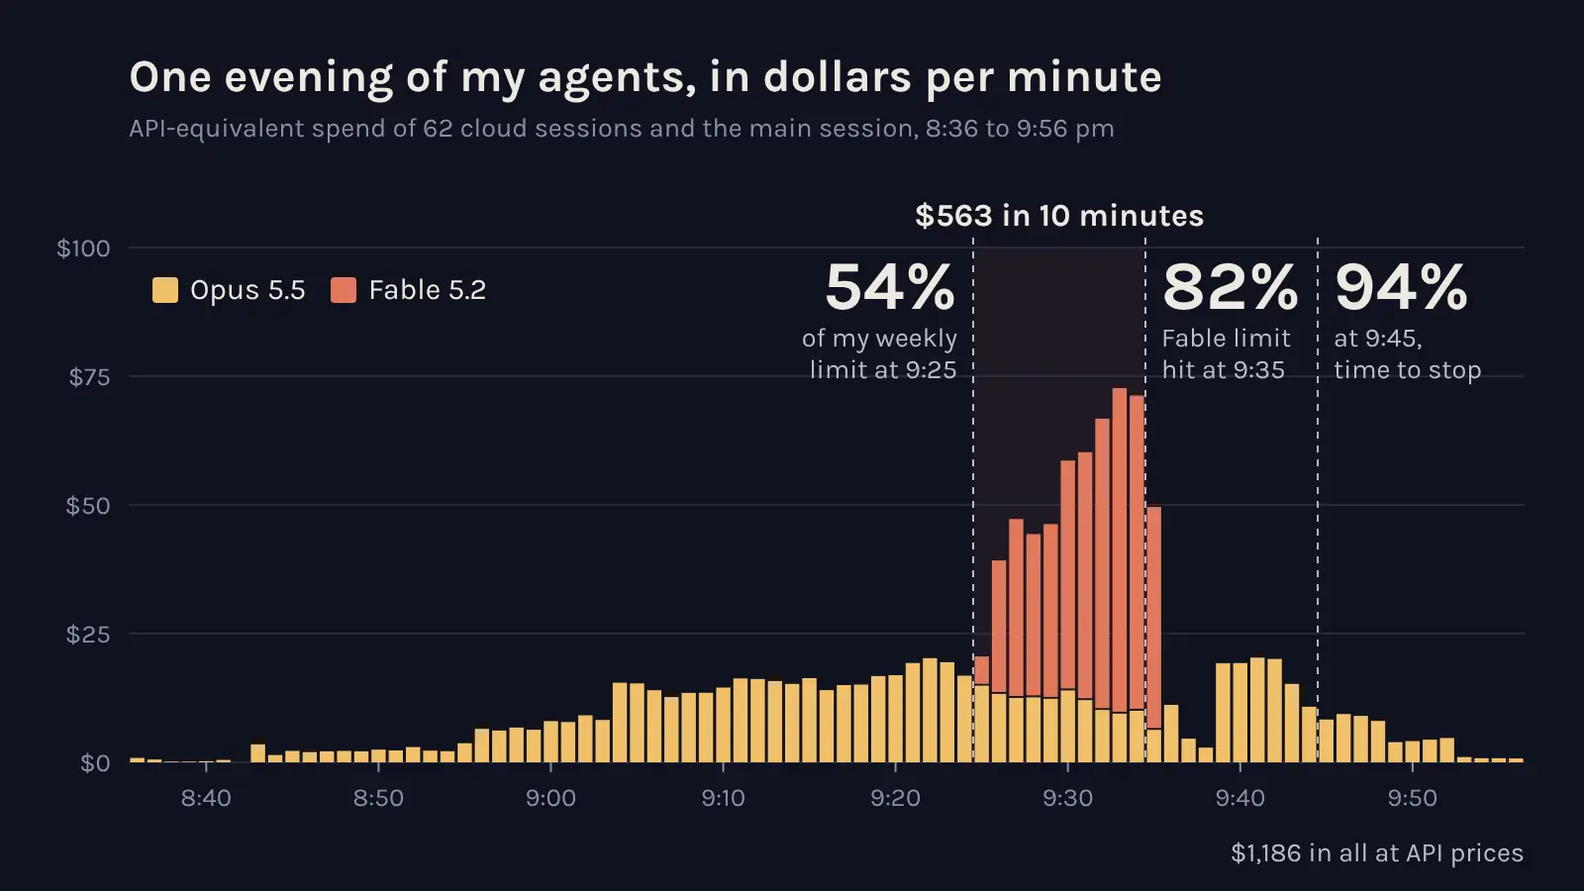
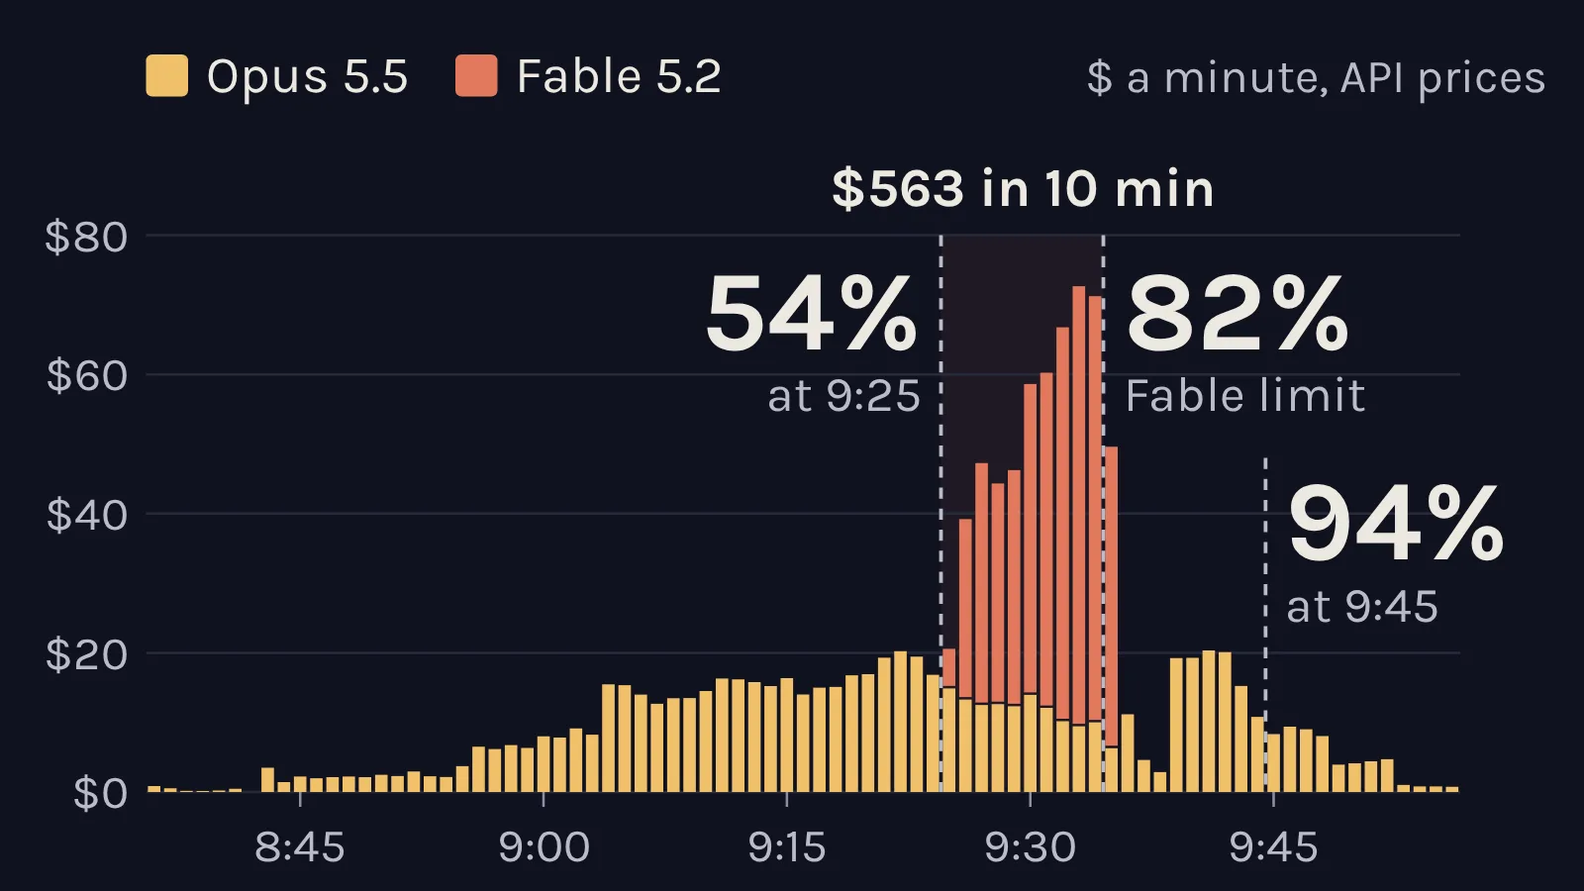
AO-085: review fixes, a phone-legible chart and a fairer account of the Fable wave
- The 9x jump in spend per minute is now set against the Opus minutes just before the wave too (about 3x:
  1.2x tokens a minute, 1.6x pricier token mix, 1.5x Fable's price), with both splits in the fold, and the
  card point, rundown and lesson no longer lean on the warm-up baseline.
- The meter claims are softened: three hand-read readings can't show how the plan weighs Fable against Opus,
  the section is "Why spend jumped when Fable joined", and my own uncounted session during the wave is noted.
- The Fable limit stopped at least 22 of the 26 Fable sessions, not 16. Peak is 39 cloud sessions (40 with the
  orchestrator). About 3,200 items had their maker, project or run overwritten, not only the maker.
- Per-minute spend is marked as estimated and rounded. Verdict says "at API prices". Hedged inferences about
  cache writes and the vision tagger, glossed newcomer terms, paraphrased one quote, dropped the write-cap number.
- The spend chart is redrawn with type that reads at 376 px (figure is flush), and the card still with it.

Claude-Session: https://claude.ai/code/session_01H1qqxxYHPuKvGosDEZab3M

diff --git a/src/content/posts/the-library-fleet.md b/src/content/posts/the-library-fleet.md
@@ -7,34 +7,34 @@ topic: "agents"
 project: []
 draft: false
 preview:
-  verdict: "$1,186 in 80 minutes"
-  takeaway: "The 10 minutes when Fable 5.2 sessions joined cost $563, almost half the night, and my weekly meter went from 54% to 82%."
+  verdict: "$1,186 at API prices"
+  takeaway: "The 10 minutes when Fable 5.2 sessions joined cost about $563, almost half the night, and my weekly meter went from 54% to 82%."
   points:
-    - "Spend per minute went up 9 times in the Fable wave. More agents at once did most of that, Fable's price the least."
+    - "The Fable wave cost 3 times as much a minute as the Opus minutes before it, mostly from a pricier token mix and Fable's price."
     - "Cache reads were 95% of the 1.8 billion tokens but only 30% of the bill. Fresh cache writes were 53%."
-    - "What broke: 1,363 bad tags, an overloaded database, the maker of about 3,200 items overwritten. All fixed that night."
+    - "What broke: 1,363 bad tags, an overloaded database, and fields on about 3,200 items overwritten. All fixed that night."
   image: "/media/previews/the-library-fleet.webp"
   alt: "Bar chart of dollars per minute through the evening: gold Opus bars under $21 a minute, then coral Fable bars spiking to $73 a minute, with the weekly meter marked at 54%, 82% and 94%"
 ---
 
-My private media library is where everything my AI agents make gets filed for me to look at. By Tuesday evening it held 72,670 files, mostly scaffolding (pictures agents made so other agents could check their work), and none were tagged by what's in them. My weekly Claude usage limit was resetting in an hour and a half with plenty left. So I asked Claude to be the orchestrator, an agent that plans a job and hands it out, and to do none of the work itself.
+My private media library is where everything my AI agents make gets filed for me to look at. By Tuesday evening it held 72,670 files, tens of thousands of them scaffolding (pictures agents made so other agents could check their work), and none were tagged by what's in them. My weekly Claude usage limit was resetting in an hour and a half with plenty left. So I asked Claude to be the orchestrator, an agent that plans a job and hands it out, and to do none of the work itself.
 
-**In 80 minutes it ran 62 cloud sessions, which started at least 425 helper agents of their own, and burned through $1,186 worth of tokens at API prices.** A cloud session is a full Claude Code agent on its own computer in the cloud. API prices are what those tokens would cost if I paid per token instead of my $200 a month plan. Almost half of it, $563, went in the 10 minutes when [Fable 5.2](/ledger/a-week-with-fable-5-2/), Anthropic's model above Opus 5.5, joined in. That's when my weekly meter jumped from 54% to 82%.
+**In 80 minutes it ran 62 cloud sessions, which started at least 425 helper agents of their own, and burned through $1,186 worth of tokens at API prices.** A cloud session is a full Claude Code agent on its own computer in the cloud. API prices are what those tokens would cost if I paid per token instead of my $200 a month plan. Almost half of it, about $563, went in the 10 minutes when [Fable 5.2](/ledger/a-week-with-fable-5-2/), Anthropic's model above Opus 5.5, joined in. That's when my weekly meter jumped from 54% to 82%.
 
-- **It came in waves.** Data workers, page builders, 13 gem hunters, 8 sessions tagging images by eye, then the Fable 5.2 wave, with 40 sessions open at the peak.
+- **It came in waves.** Data workers, page builders, 13 gem hunters (sessions that pick my best pieces), 8 sessions tagging images by eye, then the Fable 5.2 wave, with 39 cloud sessions open at the peak.
 - **I kept changing the plan while it ran,** and each ask became new sessions or helpers within minutes.
-- **Three things broke, and all were fixed that evening.** 1,363 wrong tags from a cheap vision model, about 3,200 overwritten items, and a database the crowd overloaded.
+- **Three things broke, and all were fixed that evening.** 1,363 wrong tags from a cheap vision model, fields overwritten on about 3,200 items, and a database the crowd overloaded.
 - **The trash pile had real work in it.** The rescue passes pulled 2,018 real pieces out of the cleanup proposal.
-- **The meter followed spend per minute, not the model's name.** Spend went up 9 times in the Fable wave, mostly because more agents ran at once.
-- **The cache did most of the work for little of the bill,** 95% of the tokens and 30% of the cost.
+- **Spend per minute jumped when Fable joined, from more helpers per session and Fable's higher price.** Three meter readings can't show how the plan weighs Fable against Opus.
+- **The cache did most of the work for under a third of the bill,** 95% of the tokens and 30% of the cost.
 
-<figure><img class="fill soft" src="/media/the-library-fleet/spend-per-minute.webp" alt="Bar chart of dollars per minute at API prices from 8:36 to 9:56 pm. Gold Opus 5.5 bars climb to about $20 a minute by 9:22. Coral Fable 5.2 bars stack on top from 9:25 and peak at $73 a minute at 9:33, then stop at 9:35. Dashed lines mark the weekly meter at 54% at 9:25, 82% at 9:35 when the Fable limit hit, and 94% at 9:45" loading="lazy"><figcaption>The whole evening, a column a minute. Cloud sessions report their totals exactly, but how they spread over the minutes is estimated from their checkpoints.</figcaption></figure>
+<figure class="flush"><img class="fill soft" src="/media/the-library-fleet/spend-per-minute.webp" alt="Bar chart of dollars per minute at API prices from 8:36 to 9:56 pm. Gold Opus 5.5 bars climb to about $20 a minute by 9:22. Coral Fable 5.2 bars stack on top from 9:25, peak at $73 a minute at 9:33 and stop at 9:35, $563 in those 10 minutes. Dashed lines mark the weekly meter at 54% at 9:25, 82% at 9:35 when the Fable limit hit, and 94% at 9:45" loading="lazy"><figcaption>The whole evening, a column a minute, in dollars at API prices. Each cloud session's total is exact, but how it splits by minute is estimated from its checkpoints.</figcaption></figure>
 
 ## How it ran
 
 The library is part of my command center, the private dashboard my agents post to. It's the same one whose database [hit Cloudflare's free limit](/ledger/d1-free-tier-cutoff/) in October. It held 57.9k images, 4.1k videos and 8.8k audio files.
 
-The orchestrator started helpers inside its own session (subagents, which share its computer) and cloud sessions, which each get their own. 36 sessions ran Opus 5.5 and 26 ran Fable 5.2. 29 were ultracode sessions. Ultracode is a keyword that tells Claude Code to hand every task to a crowd of helper agents, cost no object. I asked for it at 9:19.
+The orchestrator started helpers inside its own session (subagents, which share its computer) and cloud sessions, which each get their own. 36 sessions ran Opus 5.5 and 26 ran Fable 5.2. 29 were ultracode sessions. Ultracode is a keyword that tells Claude Code to hand every task to a crowd of helper agents, cost no object. I asked for it at 9:19, and the orchestrator's prompts told each of those sessions to fan out to 8 or more helpers.
 
 <ao-runs>
 <table>
@@ -129,7 +129,7 @@ The orchestrator started helpers inside its own session (subagents, which share 
 <tr><td>Fable Wow room: Echo's bell tower</td><td>Wow rooms, Fable</td><td>21:31:19</td><td>21:36:26</td></tr>
 </tbody>
 </table>
-<figcaption><b>Every session and helper on one clock, 8:36 to 9:56 pm</b><span class="ao-meta">87 bars: the orchestrator, its 24 helpers and 62 cloud sessions, on a 24-hour clock (20:36 is 8:36 pm). The 425 or more helpers inside the cloud sessions aren't drawn. Rescue passes ran on Fable until its limit, then six were moved to Opus.</span></figcaption>
+<figcaption><b>Every session and helper on one clock, 8:36 to 9:56 pm</b><span class="ao-meta">87 bars: the orchestrator, its 24 helpers and 62 cloud sessions, on a 24-hour clock (20:36 is 8:36 pm). The 425 or more helpers inside the cloud sessions aren't drawn. Rescue passes ran on Fable until its limit, then six were moved to Opus. Sessions stopped by the Fable limit are drawn to their last error, but spent nothing after 9:35. Colors only tell the phases apart.</span></figcaption>
 </ao-runs>
 
 ## How the evening went
@@ -137,28 +137,28 @@ The orchestrator started helpers inside its own session (subagents, which share 
 <ao-timeline lanes="a:Me|o:Orchestrator|f:Cloud sessions|m:Weekly meter">
 <ol>
 <li data-lane="a"><time>8:36 pm</time><p>I ask for the library tagged, tidied and made into <q>a place that I love to be</q> by 10 pm. <q>don't do any of the work yourself</q></p></li>
-<li data-lane="a"><time>8:48 pm</time><p><q>I give you unlimited database budget.</q> The dashboard's own cap on agent writes, 65,000 rows a day, still stops it.</p></li>
+<li data-lane="a"><time>8:48 pm</time><p><q>I give you unlimited database budget.</q> The dashboard's own daily cap on agent writes still stops it.</p></li>
 <li data-lane="a"><time>8:53 pm</time><p>Over the next quarter hour I add asks: versions side by side, rooms, characters grouped by world, albums that don't flood my feed.</p></li>
 <li data-lane="f"><time>8:55 pm</time><p>13 gem hunters start. Between them they look at about 12,000 thumbnails and post 259 picks.</p></li>
-<li data-lane="o"><time>8:56 pm</time><p>The vision tagger's Gemini credit runs out. Its cheaper fallback starts giving one answer for many images.</p></li>
+<li data-lane="o"><time>8:56 pm</time><p>The vision tagger's Gemini credit runs out. Around then, a cheap model it sends 100 images at a time starts giving one answer for many of them.</p></li>
 <li data-lane="f"><time>9:03 pm</time><p>Eight "Claude eyes" sessions start tagging images by looking at them.</p></li>
 <li data-lane="o"><time>9:07 pm</time><p>Its computer restarts. It picks its helpers back up from their transcripts.</p></li>
 <li data-lane="o"><time>9:09 pm</time><p>Four skeptic helpers cut the cleanup proposal from 34,588 items to 29,460. The "junk" held finished lesson videos, music videos, canon art and 3D rigs.</p></li>
 <li data-lane="a"><time>9:09 pm</time><p><q>lift the library write cap ... and deploy it</q> Live at 9:12.</p></li>
 <li data-lane="a"><time>9:11 pm</time><p>I ask for a Fable 5.2 session to work beside it.</p></li>
 <li data-lane="a"><time>9:17 pm</time><p>I ask for "Wow rooms", bespoke pages for my favorite projects.</p></li>
-<li data-lane="a"><time>9:19 pm</time><p><q>we are not using the usage limit fast enough yet</q></p></li>
-<li data-lane="a"><time>9:22 pm</time><p>The dashboard shows me Cloudflare's Error 1101.</p></li>
-<li data-lane="o"><time>9:23 pm</time><p>It finds the filing endpoint overwriting the maker on about 3,200 items.</p></li>
+<li data-lane="a"><time>9:19 pm</time><p>I ask it to use more helpers per session: ultracode.</p></li>
+<li data-lane="a"><time>9:22 pm</time><p>The dashboard shows me Error 1101, Cloudflare's crash page.</p></li>
+<li data-lane="o"><time>9:23 pm</time><p>It finds the code that files new items overwriting who made them and which project they belong to, on about 3,200 items.</p></li>
 <li data-lane="m"><time>9:25 pm</time><p>54% of the weekly limit used.</p></li>
 <li data-lane="a"><time>9:25 pm</time><p>I switch the orchestrator itself to Fable 5.2.</p></li>
 <li data-lane="f"><time>9:25 pm</time><p>Eight Fable rescue passes start on the 29,460 items marked for cleanup.</p></li>
 <li data-lane="o"><time>9:25 pm</time><p>The new library goes live.</p></li>
 <li data-lane="f"><time>9:28 pm</time><p>17 more Fable sessions in four minutes: checks, a review, tests, a reliability fix and four more Wow rooms.</p></li>
-<li data-lane="f"><time>9:32 pm</time><p>40 sessions open at once, the peak.</p></li>
+<li data-lane="f"><time>9:32 pm</time><p>39 cloud sessions open at once, 40 with the orchestrator, the peak.</p></li>
 <li data-lane="a"><time>9:35 pm</time><p>I turn down three more Wow rooms and tell it to slow down.</p></li>
-<li data-lane="m"><time>9:35 pm</time><p>82% weekly, 92% of the Fable allowance. The Fable limit hits and 16 sessions stop mid-job.</p></li>
-<li data-lane="o"><time>9:36 pm</time><p>A hardening deploy stops the 1101 crashes.</p></li>
+<li data-lane="m"><time>9:35 pm</time><p>82% weekly, 92% of the Fable allowance. The Fable limit stops at least 22 of the 26 Fable sessions mid-job.</p></li>
+<li data-lane="o"><time>9:36 pm</time><p>A fix goes live so the dashboard answers busy instead of crashing. No more 1101s.</p></li>
 <li data-lane="a"><time>9:36 pm</time><p>I switch the orchestrator back to Opus.</p></li>
 <li data-lane="a"><time>9:40 pm</time><p>I move six stopped rescue passes onto Opus 5.5 myself.</p></li>
 <li data-lane="m"><time>9:45 pm</time><p>94%. <q>okay you are at 94% now, you can wrap up</q></p></li>
@@ -169,11 +169,11 @@ The orchestrator started helpers inside its own session (subagents, which share 
 
 ## What broke, and how it was caught
 
-- **A cheap model repeated itself.** After the vision tagger's credit ran out, its fallback got 100 images per request and gave many of them one description. 1,363 wrong tags, all repaired.
+- **A cheap model repeated itself.** Around when its Gemini credit ran out, the vision tagger sent a cheap model 100 images per request, and it gave many of them one description. 1,363 wrong tags, all repaired.
 - **The crowd overloaded the database.** About 45 agents caused about 2,200 "overloaded" errors from 9:15 to 9:30, which was my Error 1101 page. The fix answers "busy, try again" instead of crashing, retries reads and caches thumbnails.
-- **A bug overwrote who made things,** on about 3,200 existing items. A repair helper put them back, and a check of all 72,684 items found 0 differences.
+- **A bug overwrote who made things and which project they belong to,** on about 3,200 existing items. A repair helper put them back, and a check of all 72,684 items found 0 differences.
 - **Approvals don't pass through agents.** Claude Code's permission check wouldn't lift the write cap on the orchestrator's word, only when I typed it myself. One cloud session waited until I approved it.
-- **Fable ran out.** It has its own allowance, up to half the weekly limit. 16 sessions stopped mid-job, the version-family check with all 18 of its helpers. The six rescue passes I moved to Opus finished.
+- **Fable ran out.** It has its own allowance, up to half the weekly limit. The limit stopped at least 22 of the 26 Fable sessions mid-job. I moved six rescue passes to Opus and they finished. The other 16 ended there, including the check of version families (every take of one piece, grouped) with all 18 of its helpers.
 
 ## What it built
 
@@ -185,7 +185,7 @@ The orchestrator started helpers inside its own session (subagents, which share 
 
 ## What it cost
 
-**$1,185.63 at API prices**, $14.79 a minute. The cloud sessions spent $1,048.32 and the main session $137.31. Opus 5.5 was $731.25 and Fable 5.2 $454.13, plus 25 cents of Sonnet 5.5. I didn't pay that. It all ran on my plan, where the real cost is a share of the weekly limit.
+**$1,185.63 at API prices**, $14.79 a minute. The cloud sessions spent $1,048.32 and the main session $137.31. Opus 5.5 was $731.25 and Fable 5.2 $454.13, plus 25 cents of Sonnet 5.5, a cheaper Claude model one video tagger used. I didn't pay that. It all ran on my plan, where the real cost is a share of the weekly limit.
 
 <ao-bars unit="dollars">
 <table>
@@ -209,7 +209,7 @@ The orchestrator started helpers inside its own session (subagents, which share 
 <figcaption><b>Where the $1,186 went, by group</b><span class="ao-meta">API-equivalent dollars, with how many sessions or helpers each group had. The video taggers' 25 cents of Sonnet 5.5 isn't drawn.</span></figcaption>
 </ao-bars>
 
-Three rescue passes were the most expensive sessions, $65 to $75 each, then the orchestrator at $48.84. Writing this post had cost another $22.13 when these numbers were pulled, and that isn't counted. My [Playback Lens](/ledger/reading-my-own-agents/) only reads transcripts on its own computer, so it saw just the main session. The cloud sessions' numbers come from the token use each one reports.
+Three rescue passes were the most expensive sessions, $65 to $75 each, then the orchestrator at $48.84. Two things aren't counted: one session of my own that ran on the same account during the Fable wave, and writing this post, which had cost another $22.13 when these numbers were pulled. My [Playback Lens](/ledger/reading-my-own-agents/) only reads transcripts on its own computer, so it saw just the main session. The cloud sessions' numbers come from the token use each one reports.
 
 <details><summary>Every session and helper, most expensive first</summary>
 
@@ -307,28 +307,6 @@ Three rescue passes were the most expensive sessions, $65 to $75 each, then the 
 
 </details>
 
-## Why the meter jumped when Fable joined
-
-What I saw live was dozens of Opus sessions with the meter barely moving, then the Fable sessions came in and it raced.
-
-| Stretch | Minutes | API-equivalent | Per minute | Meter |
-|---|---|---|---|---|
-| 8:36 to 9:13 pm, Opus only | 36 | $227.82 | $6.25 | not read |
-| 9:25 to 9:35 pm, the Fable wave | 10 | $562.90 | $56.20 | 54% to 82% |
-| 9:35 to 9:45 pm, Opus after the Fable limit | 10 | $130.00 | $13.22 | 82% to 94% |
-
-**Spend per minute in the Fable wave was 9 times the Opus-only start.** That 9 is three factors multiplied:
-
-- **3.55 times the tokens a minute.** More sessions ran at once, and 25 of the 26 Fable ones were ultracode, with 13.2 helpers each on average against 4.1 for the Opus sessions.
-- **1.63 times pricier tokens.** Short-lived helpers start with an empty cache, so more of their tokens are the expensive kinds, cache writes and output.
-- **1.56 times from Fable's price,** which is twice Opus's per token, except for cache reads.
-
-The rescue passes spent $3.21 per session-minute on Fable and $2.32 after I moved six of them to Opus. The model mattered, but the crowd mattered more.
-
-The data doesn't show a Fable dollar moving the meter more than an Opus dollar: 28 points for $563 in the wave, 12 for $130 in the Opus minutes after. The readings are whole percents off my screen, though, I don't know the meter's lag, and both bars include my use from earlier in the week.
-
-Switching the orchestrator's model cost $13.15 by itself. A prompt cache belongs to one model, so its first Fable request stored its whole 506,099-token conversation again ($8.35), and its first Opus request after did the same ($4.80).
-
 ## What the cache did to the bill
 
 Every step, an agent re-reads its whole conversation so far, mostly from a cache. A cache read costs a twentieth of the normal input price on Opus. A cache write, storing new context to re-read later, costs more than plain input.
@@ -346,13 +324,34 @@ Every step, an agent re-reads its whole conversation so far, mostly from a cache
 <figcaption><b>1.84 billion tokens, and what each kind cost</b><span class="ao-meta">Cache reads: 1.75 billion tokens, $349.47. Cache writes: 80.4 million, $627.61. Output: 8.35 million, $207.49. Fresh input: 256 thousand, $1.06.</span></figcaption>
 </ao-bars>
 
-Billed as fresh input, those re-reads would have cost $7,918 instead of $349. Cache writes were the biggest part, 53%, the price of short-lived helpers each storing its context from scratch. Over [16 weeks of my normal use](/ledger/what-drives-claude-code-cost/), cache reads were the biggest part.
+Billed as fresh input, those re-reads would have cost $7,918 instead of $349. Cache writes were the biggest part, 53%, probably mostly short-lived helpers storing their context from scratch. Over [16 weeks of my normal use](/ledger/what-drives-claude-code-cost/), cache reads were the biggest part.
+
+## Why spend jumped when Fable joined
+
+What I saw live was dozens of Opus sessions with the meter barely moving, then the Fable sessions came in and it raced.
+
+| Stretch | API-equivalent | Per minute | Meter |
+|---|---|---|---|
+| 8:36 to 9:13, Opus | $228 | $6 | not read |
+| 9:13 to 9:25, nearly all Opus | $215 | $17 | 54% at 9:25 |
+| 9:25 to 9:35, Fable wave | $563 | $56 | 54% to 82% |
+| 9:35 to 9:45, Opus | $130 | $13 | 82% to 94% |
+
+Each cloud session's total is exact, but how it splits by minute is estimated from its checkpoints.
+
+Spend per minute in the Fable wave was 9 times the slow start, but only about 3 times the Opus minutes just before it (9:19 to 9:25). Against those, tokens a minute rose 1.2 times, a pricier mix of tokens 1.6 times (more cache writes and output, probably from short-lived helpers) and Fable's price 1.5 times. 25 of the 26 Fable sessions were ultracode, with 13.2 helpers each on average against 4.1 for the Opus ones.
+
+So helpers per session mattered about as much as the model. The rescue passes, with about 27 helpers each, spent $3.21 per session-minute (spend divided by minutes open) on Fable and $2.32 after six moved to Opus. The Opus gem hunters, with about 3 helpers each, spent $0.36.
+
+Three meter readings can't show how the plan weighs Fable against Opus. If anything, an Opus dollar moved it more: about 5 points per $100 in the wave, about 9 in the Opus minutes after. But the readings are whole percents off my screen, the meter's lag is unknown, both readings include my use from earlier in the week, and one session of my own ran during the wave. The plan goes by the model's name in one place, Fable's own allowance, and hitting that stopped the wave.
+
+Switching the orchestrator's model cost about $13 by itself. A prompt cache belongs to one model, so its first Fable request wrote its 506,099-token conversation to the cache again ($8.35), and its first Opus request after rewrote nearly all of its own ($4.80).
 
 ## What I'd do differently
 
-- **Count agents, not models.** How many ran at once set the burn rate more than the price list did.
-- **Don't switch the orchestrator's model mid-job.** That's $13.15 just to cache its conversation again.
-- **Give the database retries before 40 sessions hit it,** not after the error page.
+- **Watch helpers per session, not just the model.** Big fan-outs raised the cost per minute about as much as Fable's price did.
+- **Don't switch the orchestrator's model mid-job.** That's about $13 just to cache its conversation again.
+- **Give the database retries before 45 agents hit it,** not after the error page.
 - **Spot-check cheap models that work in batches.** One answer copied across many images looks fine until you look.
 - **Stay near the keyboard.** Permission changes and deploys wait for me, not the orchestrator.
 - **Plan for the Fable allowance.** When it runs out, sessions stop mid-job, helpers and all.
@@ -373,6 +372,17 @@ API-equivalent cost is each agent's tokens times Anthropic's list price per mill
 | Fable 5.2 | 232,246,065 | 26,420,512 | 3,903,283 | 2,023,787 | 8,915 | $454.13 |
 | Sonnet 5.5 | 0 | 99,001 | 0 | 156 | 2 | $0.25 |
 
+Spend per minute in the Fable wave, split into three factors that multiply:
+
+| Factor | Against 8:36 to 9:13 | Against 9:19 to 9:25 |
+|---|---|---|
+| Tokens a minute | 3.55 | 1.23 |
+| Pricier kinds of tokens | 1.63 | 1.62 |
+| Fable's price | 1.56 | 1.54 |
+| All together | 9.0 | 3.1 |
+
+- Tokens a minute counts every kind. Pricier kinds compares the cost per token at Opus prices, so it measures the mix of cache writes, output and cache reads. Fable's price compares the wave's cost with the same tokens at Opus prices. About half the wave's tokens were Opus, so it's well under Fable's own 1.81.
+- The 9:19 to 9:25 minutes cost $122.21, $18.33 a minute, at 41.6 million tokens a minute. The wave was $562.90, $56.20 a minute, at 51.3 million.
 - The main session's numbers come from its transcripts, every request counted once. The cloud sessions' come from each session's own cumulative usage record. Recomputed from tokens and prices, they match the $1,048.32 the sessions report to the cent.
 - Fable's tokens would have cost $250.29 at Opus prices, so on the same tokens Fable cost 1.81 times as much, not 2. Cache reads cost the same on both.
 - Per million tokens handled, Fable cost $1.716 and Opus $0.465. 96.4% of Opus's tokens were cheap cache reads, against 87.8% of Fable's.
